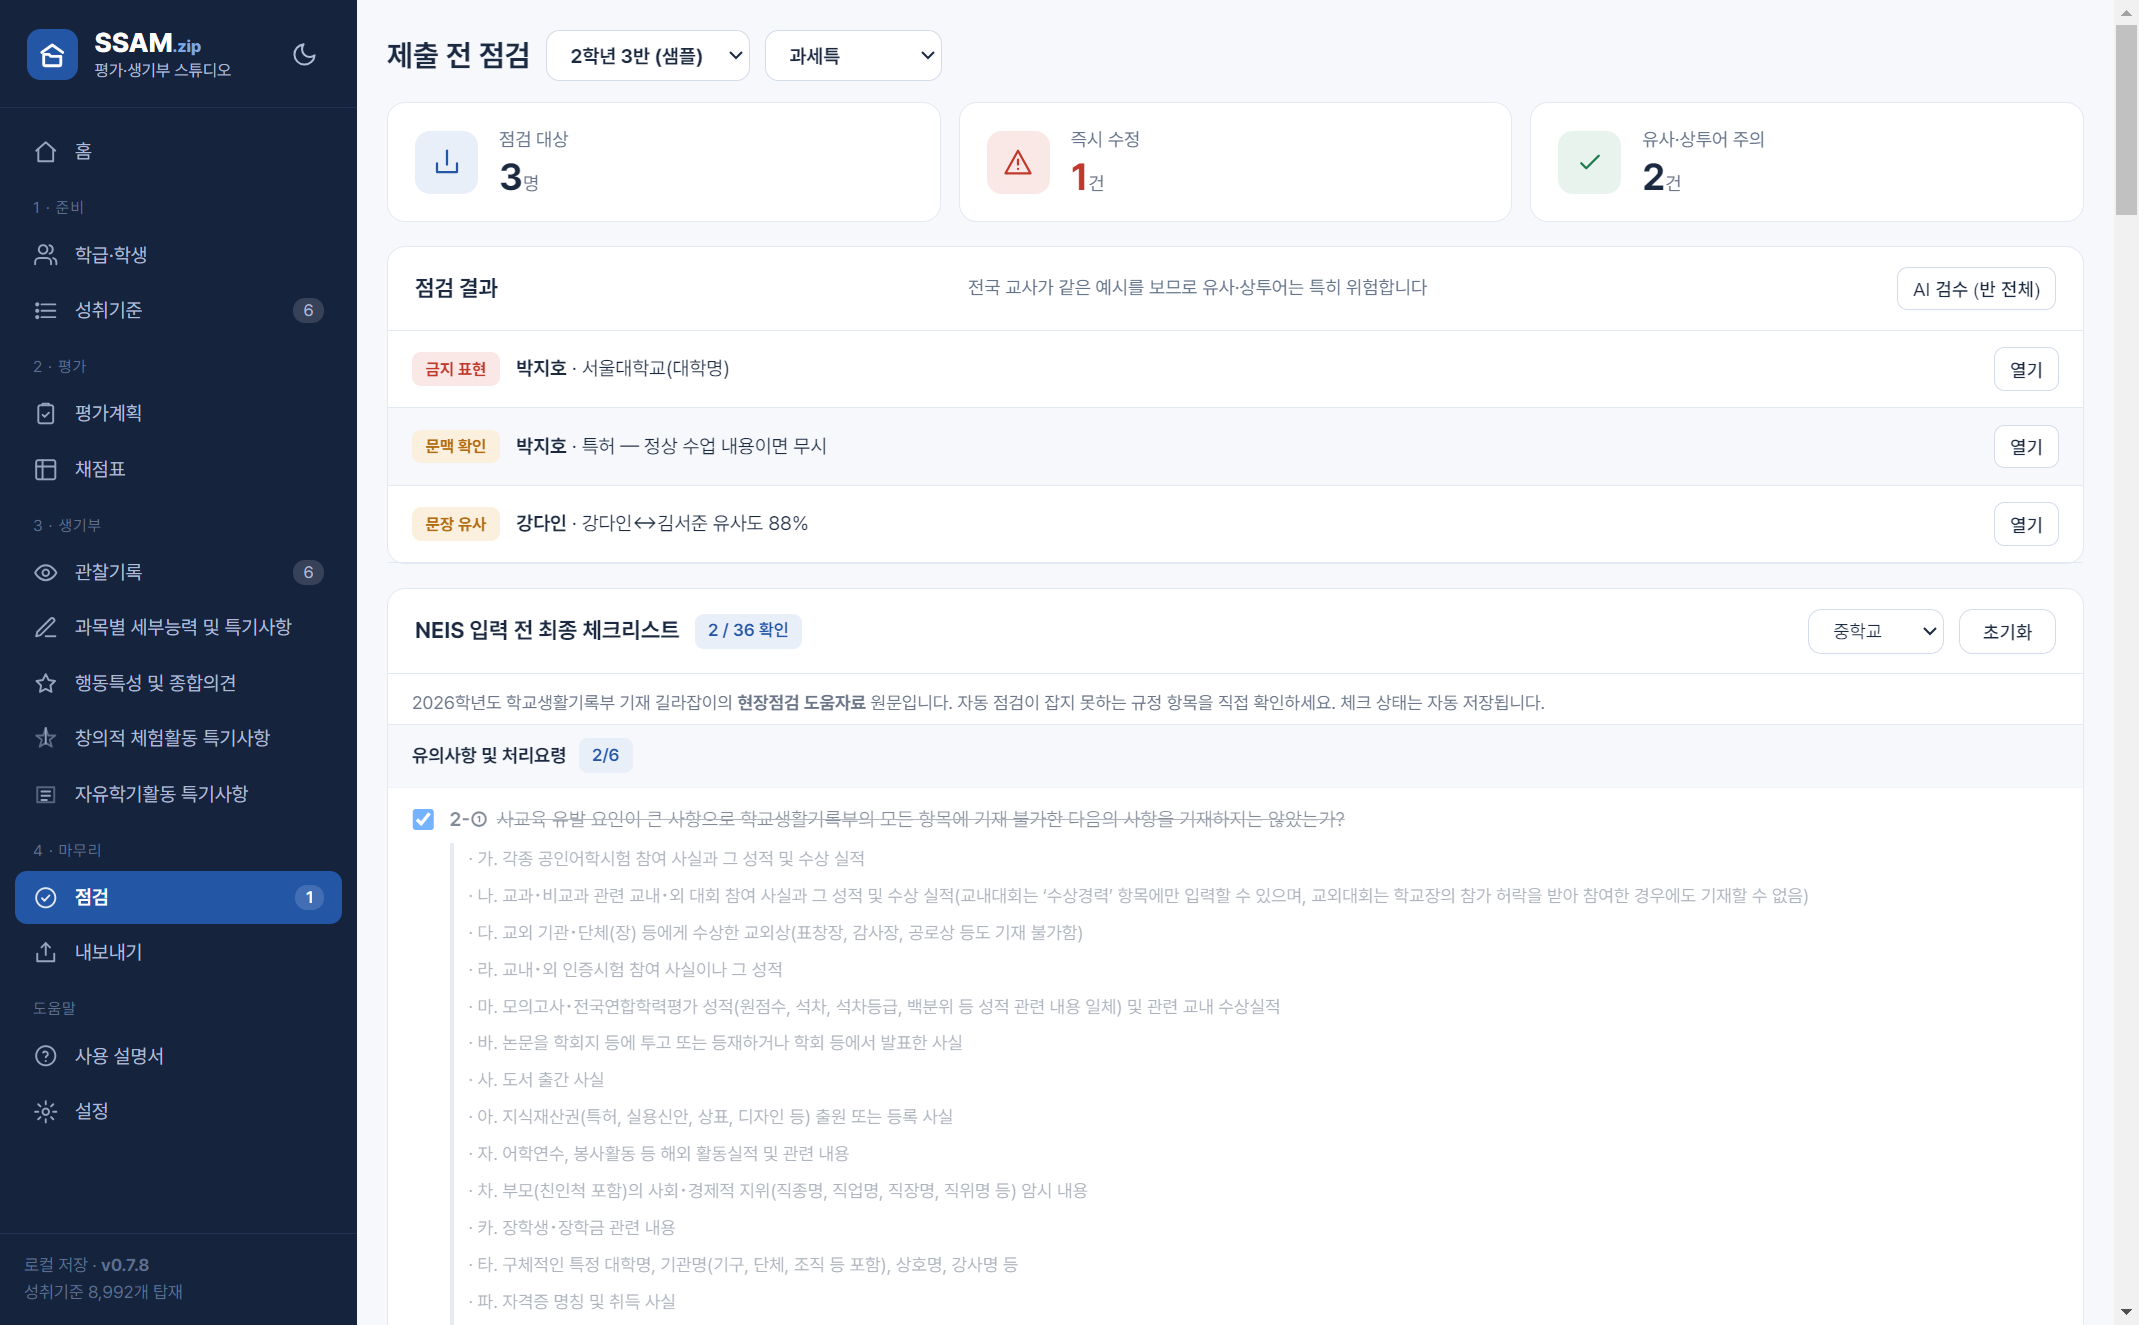
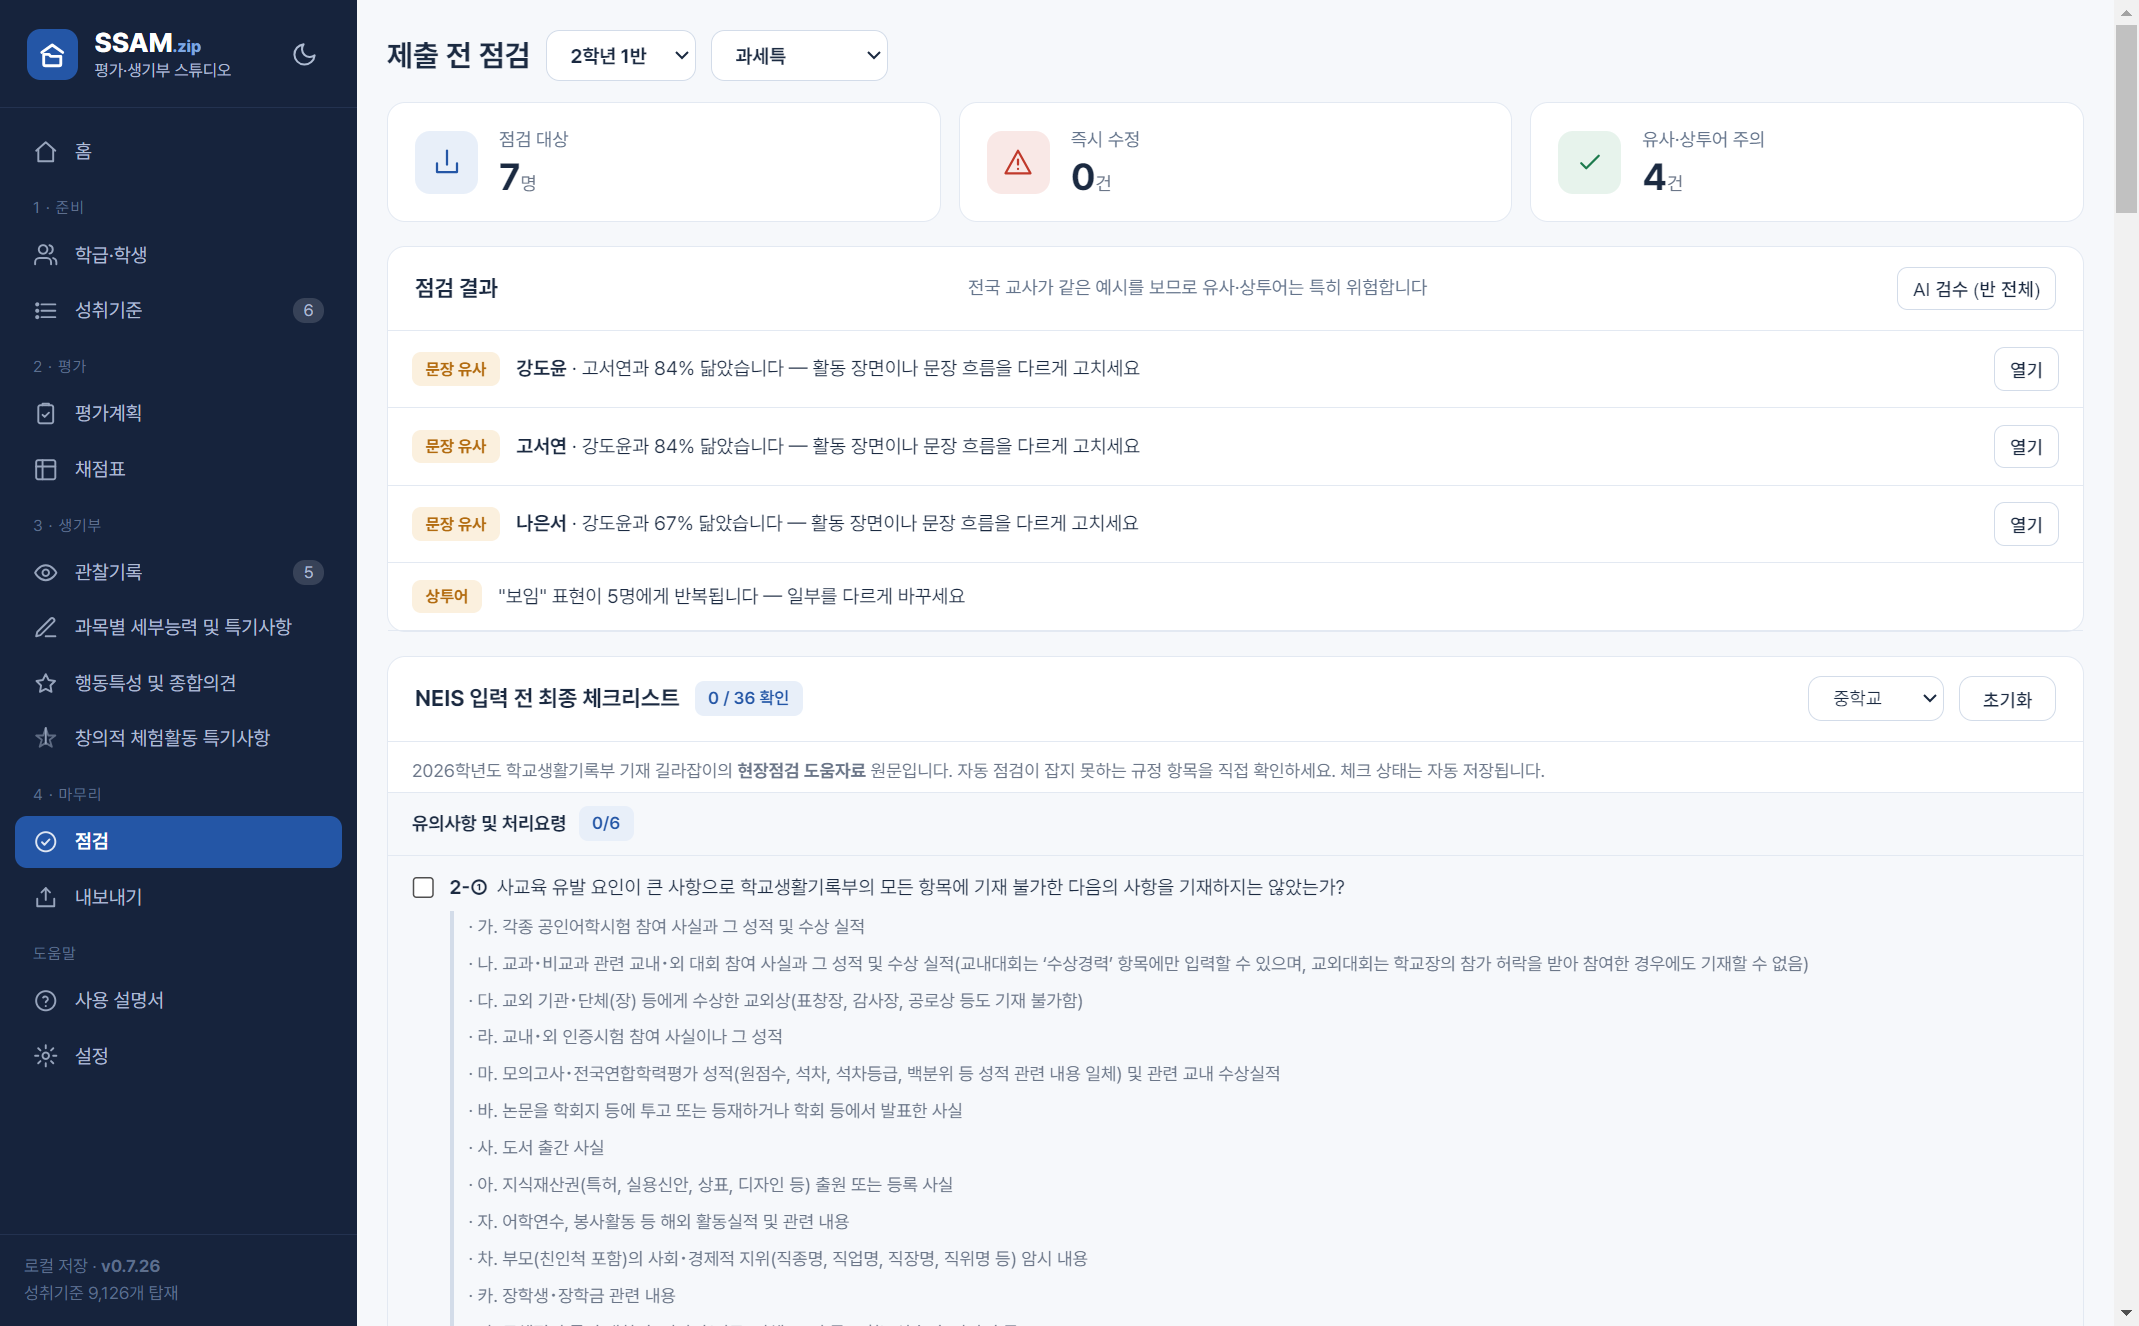
ssam 가이드: v0.7.26 반영
내용이 오늘 새벽(04:54)에서 멈춰 있었다. 다운로드 링크는 latest 고정이라
파일은 최신이 나가는데 설명만 뒤처진 상태였다.

- 성취기준 탑재 수 8,992 → 9,126 (실제 데이터와 어긋나 있었음)
- 성취도 A~E 산출 설명 추가 (채점표 섹션)
- '새 과목 시작' 추가 — 화면을 그냥 비워도 앞 과목 세트가 보관된다는 점 명시
- 점검: 판박이 문장은 학생마다 가장 닮은 상대 한 명만, 점수·등급·석차 숫자 안내
- 내보내기: 점수표에 학기 성취율·성취도, 초안은 [초안] 표시
- FAQ에 '실수로 지웠어요'(되돌리기·백업 복원) 추가
- 화면 그림 9장을 앱 최신본으로 교체 (해시 대조 확인)

diff --git a/ssam/index.html b/ssam/index.html
@@ -330,9 +330,10 @@
           <div class="sec-num">5</div>
           <div><h2>성취기준 담기</h2><p>1·준비 — 이번 학기에 쓸 성취기준 선택</p></div>
         </div>
-        <p class="body">교육과정에서 이번 학기에 쓸 <strong>성취기준을 체크해 담습니다</strong>(8,992개 탑재 — 중·고, 2015·2022 개정 전체). 담은 성취기준이 <strong>평가계획·과세특의 뼈대</strong>가 돼요. 개정·학교급·과목·검색으로 좁혀 찾으세요.</p>
+        <p class="body">교육과정에서 이번 학기에 쓸 <strong>성취기준을 체크해 담습니다</strong>(9,126개 탑재 — 중·고, 2015·2022 개정 전체). 담은 성취기준이 <strong>평가계획·과세특의 뼈대</strong>가 돼요. 개정·학교급·과목·검색으로 좁혀 찾으세요.</p>
         <ul class="body">
           <li><strong>과목이 여러 개라면 — 과목 세트</strong>. 오른쪽 위 세트 상자에서 <strong>‘+ 새 세트로 저장’</strong>을 누르면 지금 담은 성취기준·평가계획·채점표가 과목 이름으로 통째로 저장돼요. 다른 과목으로 <strong>전환</strong>하면 그 과목 상태가 그대로 돌아옵니다.</li>
+          <li><strong>다음 과목을 시작할 때</strong> — 같은 세트 상자의 <strong>‘↦ 새 과목 시작’</strong>을 쓰세요. 지금까지 작업을 세트에 저장하고 화면을 비워 줍니다. (화면의 성취기준을 그냥 지워도 앞 과목 세트는 그대로 보관되고 연결만 풀리니, 앞서 만든 평가계획·채점이 사라지지 않아요.)</li>
           <li><strong>“과목을 골라 주세요”가 뜨면</strong> — 교육과정 코드는 과목이 달라도 겹칠 때가 있어요(예: <code>12스문01-01</code>은 체육 ‘스포츠 문화’와 제2외국어 ‘스페인어권 문화’가 공유). 어느 과목인지 앱이 못 정한 게 있으면 안내가 뜨는데, <strong>과목만 골라 주면</strong> 바로 반영됩니다.</li>
         </ul>
         <figure class="shot"><img src="img/std.png" alt="성취기준 화면"><figcaption>성취기준 — 체크해서 ‘담기’</figcaption></figure>
@@ -382,6 +383,7 @@
         <p class="body">학급과 평가 항목을 고르면 학생별 채점표가 떠요. <strong>급간(60점·45점…)을 클릭</strong>하면 점수와 성취수준이 함께 기록됩니다. 채점기준이 없는 항목은 <strong>숫자로</strong> 입력하세요.</p>
         <ul class="body">
           <li><strong>전체 항목 한 화면</strong> — 오른쪽 위 체크를 켜면 모든 평가 항목이 열로 나란히 놓여, 학생 한 줄에 전 종목을 채점할 수 있어요(숫자 입력).</li>
+          <li><strong>성취도 A~E</strong> — ‘전체 항목 한 화면’ 오른쪽 끝에 성취도가 함께 나와요. 각 항목의 성취율을 <strong>반영 비율대로 가중</strong>한 학기 성취율 기준으로 <strong>A(90) · B(80) · C(70) · D(60) · E</strong>. 표 위에는 <strong>학급 분포</strong>(A 4명 · B 4명 …)가 뜹니다. 여기 넣은 평가 항목만으로 계산하니, 지필평가를 따로 반영하신다면 그만큼 달라져요. 아직 채점이 안 끝난 학생은 <strong>잠정</strong>으로 표시됩니다.</li>
           <li><strong>일괄 채점</strong> — ‘모든 학생 ○점’, ‘모든 요소를 ○순위 급간으로’를 미채점자만/전체에 적용한 뒤 개별로 손보면 빨라요.</li>
           <li><strong>저장 버튼은 없어요</strong> — 누르는 즉시 자동 저장됩니다. 위 배지에 <strong>채점 n / 미입력 n / 0점 n</strong>이 표시돼요(0점과 미입력은 다릅니다).</li>
         </ul>
@@ -434,7 +436,11 @@
           <div><h2>점검·내보내기</h2><p>4·마무리 — NEIS 넣기 직전</p></div>
         </div>
         <p class="body"><strong>점검</strong>에서 학급·유형을 고르면 대학명·어학시험 등 <strong>금지 표현</strong>·글자수 초과·판박이 문장·상투어를 한 번에 확인해요. 아래쪽엔 <strong>NEIS 입력 전 최종 체크리스트</strong>(2026 기재 길라잡이 원문)도 있습니다.</p>
-        <p class="body"><strong>내보내기</strong>에서 검수 완료된 문장을 <strong>엑셀로 저장하거나 복사</strong>해 NEIS에 붙여넣으세요. 한 학생 것은 <strong>합본 PDF</strong>로, 평가계획서는 <strong>한글 파일(hwpx)</strong>로 받을 수 있어요.</p>
+        <ul class="body">
+          <li><strong>판박이 문장</strong> — 학생마다 <strong>가장 많이 닮은 상대 한 명</strong>만, 닮은 정도가 큰 순서로 보여 줘요. 위에서부터 손보시면 됩니다.</li>
+          <li><strong>점수·등급·석차 숫자</strong> — ‘85점’·‘1등’·‘3등급’처럼 본문에 남으면 안 되는 숫자를 짚어 줘요. ‘3점슛’ 같은 수업 내용은 걸리지 않습니다.</li>
+        </ul>
+        <p class="body"><strong>내보내기</strong>에서 검수 완료된 문장을 <strong>엑셀로 저장하거나 복사</strong>해 NEIS에 붙여넣으세요. 한 학생 것은 <strong>합본 PDF</strong>로, 평가계획서는 <strong>한글 파일(hwpx)</strong>로 받을 수 있어요. 점수표에는 <strong>학기 성취율·성취도</strong>가 함께 나가고, 검수 전 초안까지 포함해 내보내면 그 줄에 <strong>[초안]</strong>이 붙어 완료본과 구분됩니다.</p>
         <div class="note tip"><span class="ic">📑</span><div><b>여러 반은 한 파일로</b><p>교과 전담처럼 여러 반을 가르치면 내보내기 아래 <strong>‘전체 반 한 파일로’</strong>를 켜세요. 과세특·행동특성·창체·자유학기·점수가 <strong>반별 시트(탭)</strong>로 든 엑셀 1개로 저장돼, NEIS엔 시트만 바꿔 붙여넣으면 됩니다. 내용이 없는 반은 자동으로 빠지고, 끄면 위에서 고른 반 하나만 나갑니다.</p></div></div>
         <div class="note warn"><span class="ic">⚠</span><div><b>글자수는 넣기 전에 꼭 줄이세요</b><p>한도(과세특 500자·행동특성 300자·창체 각 500자·자유학기 각 1,000자)를 넘으면 빨간색으로 표시되고 검수 완료가 막혀요. AI 문장은 그대로 쓰지 말고 한 번 읽고 다듬는 것이 규정에 맞습니다.</p></div></div>
         <figure class="shot"><img src="img/lint.png" alt="점검 화면"><figcaption>점검 — 규칙 기반 점검 · AI 검수(반 전체) · NEIS 체크리스트</figcaption></figure>
@@ -451,6 +457,7 @@
           <p>그래도 <strong>가끔 몇 명이 안 될 때</strong>가 있는데 — <strong>1분쯤 쉬었다가 ‘일괄 생성’을 다시 누르면</strong> 앱이 <strong>미작성 학생만 이어서</strong> 만듭니다(이미 된 건 안 건드려요). 하루 한도까지 다 쓴 경우엔 다음 날 이어서 하시면 돼요. <strong>요령:</strong> 한 반을 몰아치기보다 반씩·과목씩 나눠 돌리면 더 매끄러워요.</p>
         </div>
         <div class="faq"><b>💾 저장은 언제 되나요?</b><p>모든 입력은 <strong>자동 저장</strong>이에요. 따로 저장 버튼이 없고, 앱을 껐다 켜도 그대로 남습니다.</p></div>
+        <div class="faq"><b>↩ 실수로 지웠어요.</b><p>학급 삭제·일괄 작업처럼 되돌릴 수 없는 일을 하면 화면 왼쪽 아래에 <strong>‘되돌리기’</strong>가 떠요. 그 자리에서 누르면 직전 상태로 돌아갑니다(앱을 닫으면 사라지니 바로 눌러 주세요). 그보다 더 앞으로 돌아가야 하면 <strong>내보내기 → ‘백업 가져오기’</strong>로 복원하시면 됩니다. 앱은 켤 때마다 자동 백업을 한 벌씩 남겨 둬요.</p></div>
         <div class="faq"><b>🔐 내 자료가 밖으로 나가나요?</b><p>아니요. 전부 이 PC에만 저장돼요. AI 생성 때만 필요한 문장이 전송되고, 그때도 학생 실명은 자동으로 가려서 보냅니다.</p></div>
         <div class="faq"><b>🔄 업데이트는 어떻게 하나요?</b><p>위 다운로드 링크는 늘 최신을 받으니, 새 버전이 나오면 같은 링크로 다시 받아 <strong>기존 앱 위에 덮어 설치</strong>하면 됩니다(기록은 그대로 유지). 앱이 새 버전을 감지하면 홈 화면에서 알려주기도 해요.</p></div>
         <div class="faq"><b>🆙 AI 초안 생성이 안 돼요.</b><p>두 가지 중 하나예요(이유가 생성 버튼 바로 위에 표시됩니다). ①<strong>API 키가 없을 때</strong> → 설정 ‘AI 연결’에 등록. ②<strong>근거가 하나도 없을 때</strong> → 이 앱은 근거 없이 지어내지 않아요. 관찰기록·키워드 칩·채점·첨부 중 하나라도 있으면 풀립니다.</p></div>
